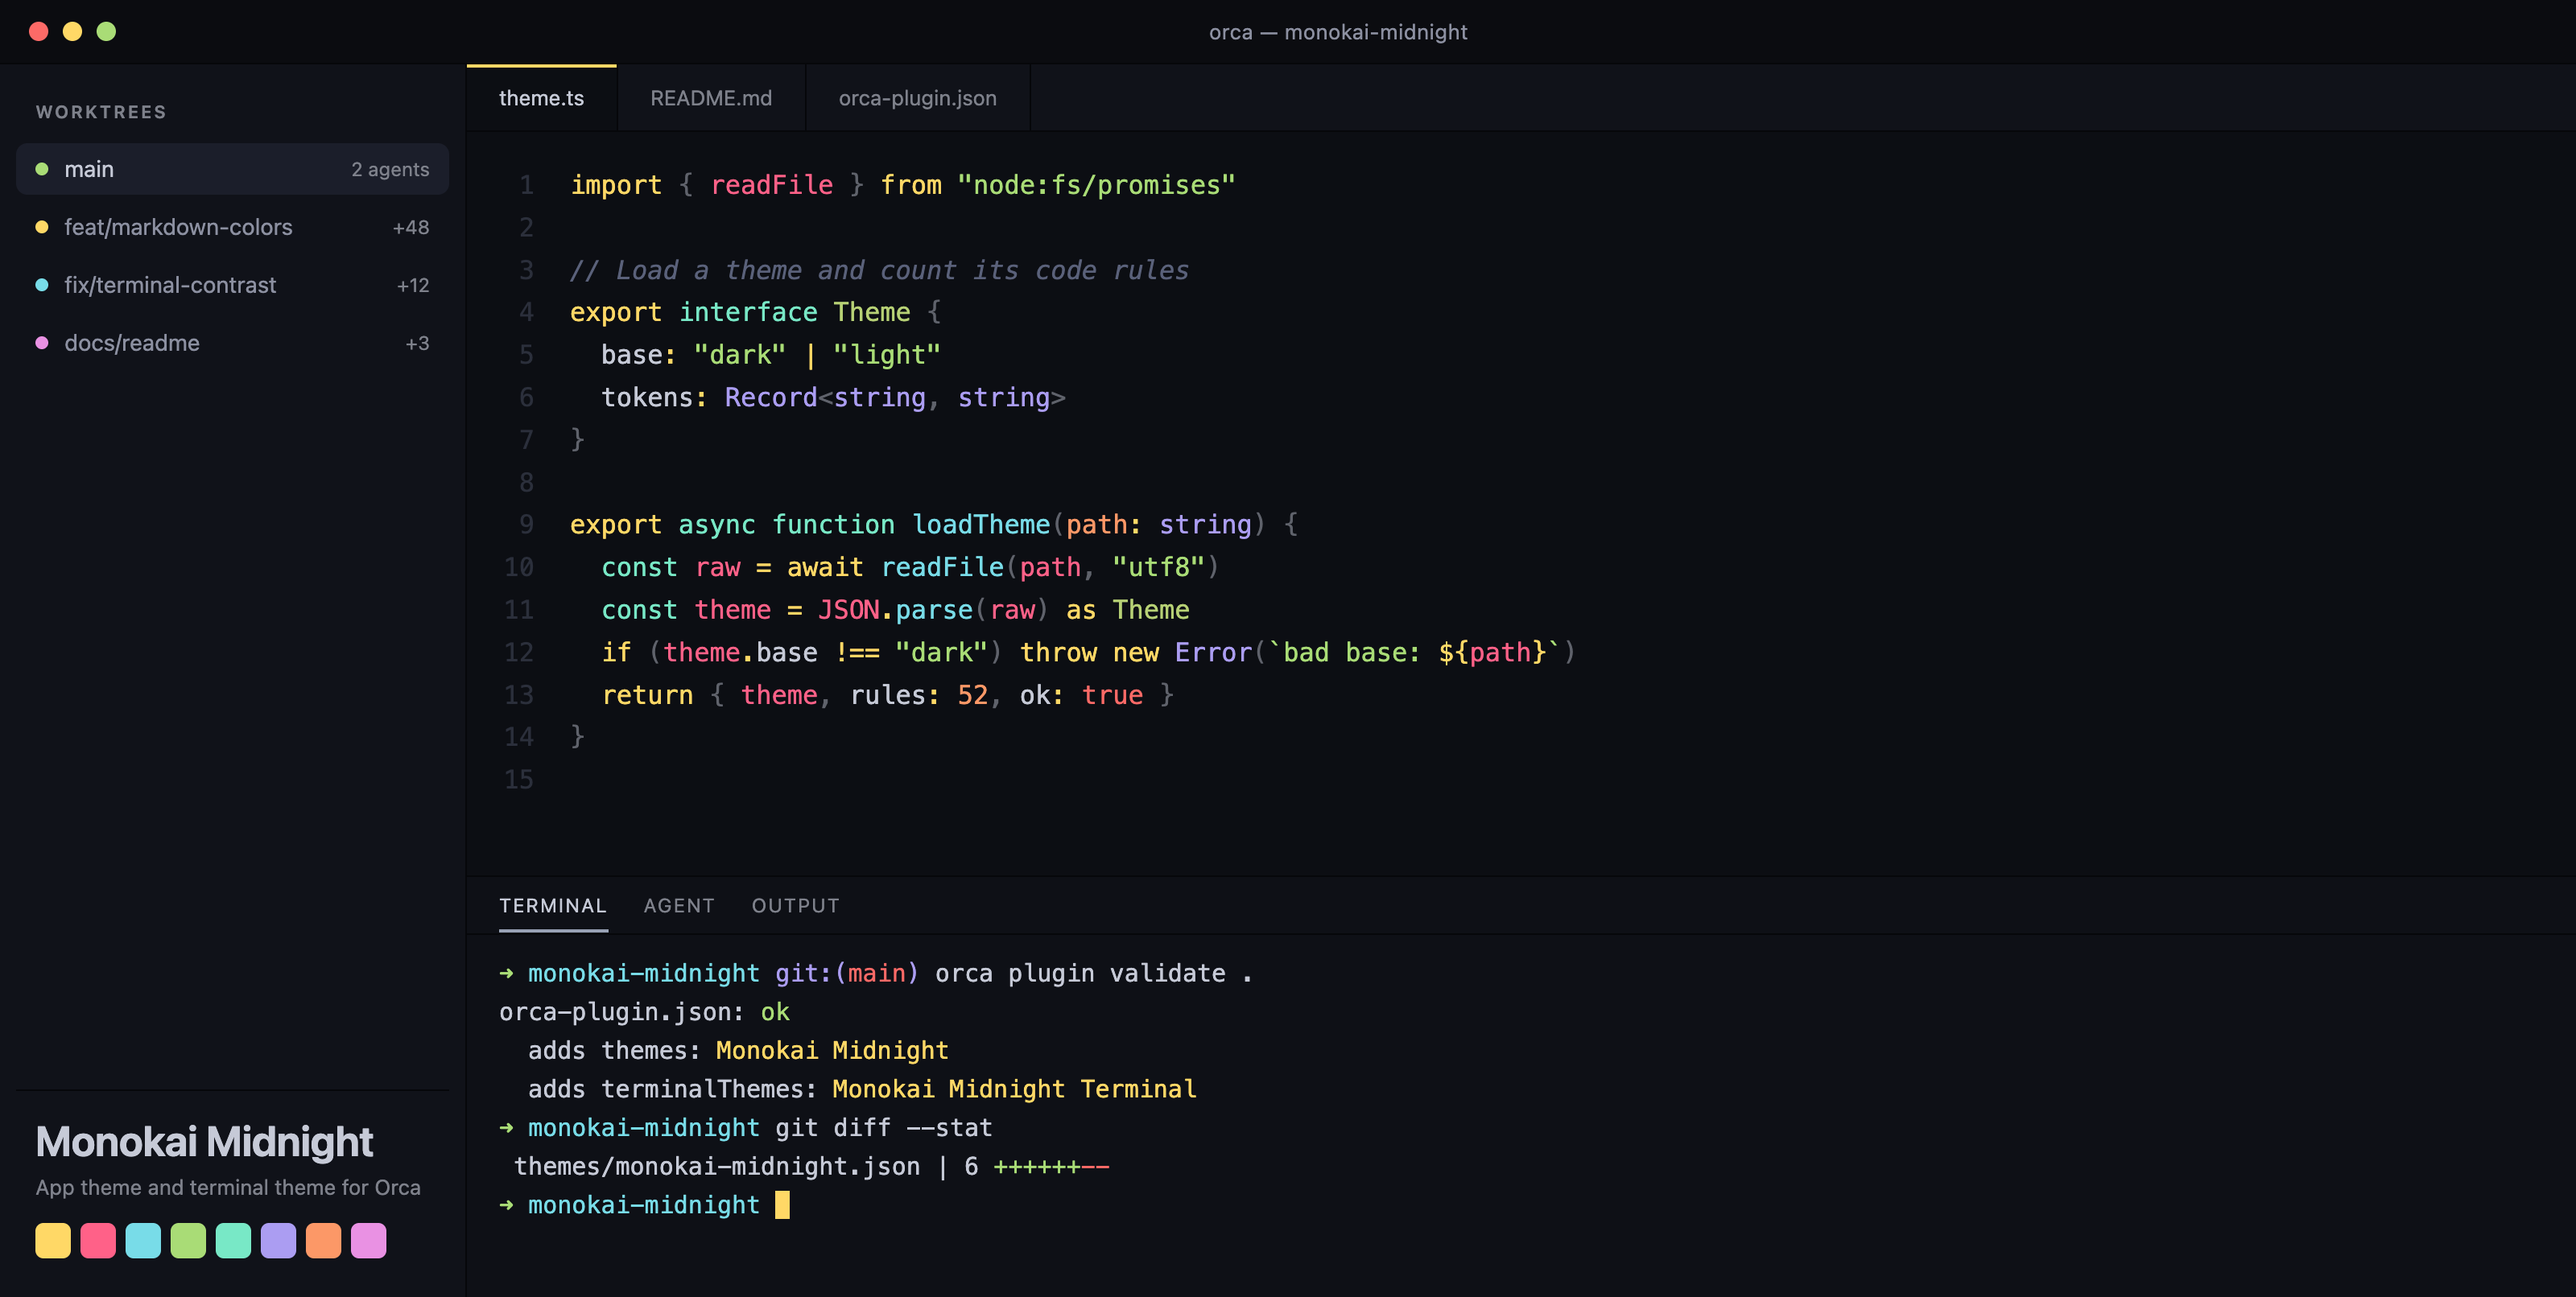
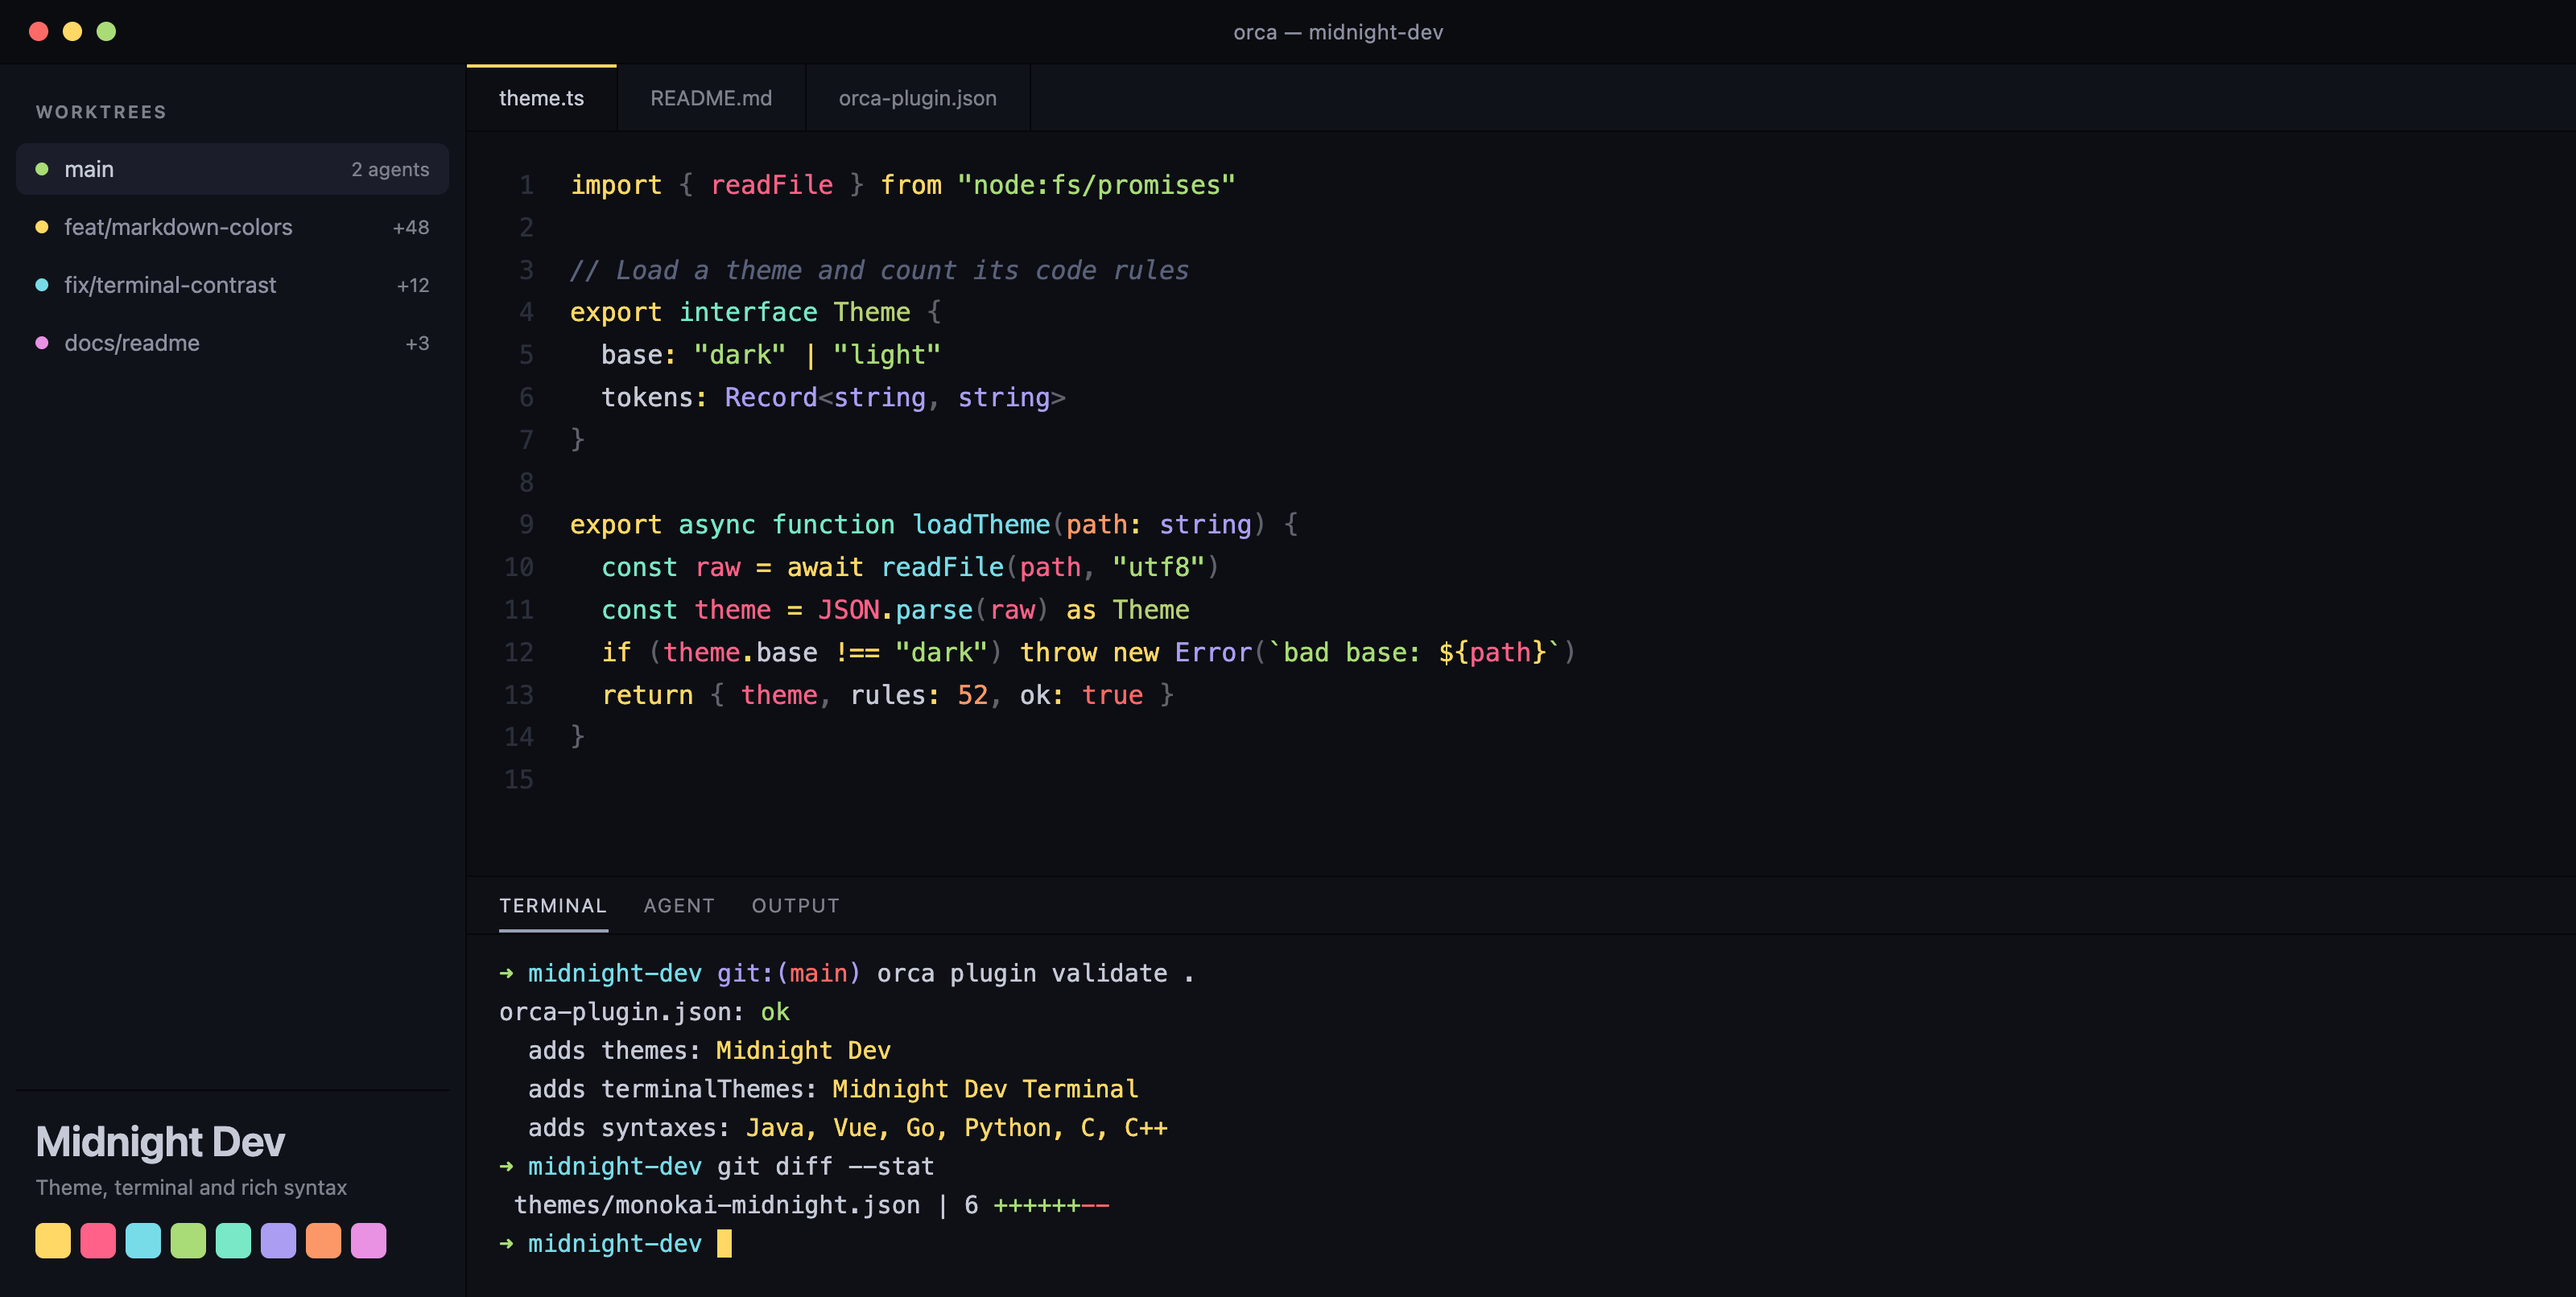
Rename plugin to Midnight Dev with Rich Syntax
New display name, theme titles, description and cover. The plugin id
and theme ids stay monokai-midnight so existing installs keep updating.

diff --git a/README.md b/README.md
@@ -1,16 +1,16 @@
-# Monokai Midnight
+# Midnight Dev with Rich Syntax
 
 A dark Monokai theme for [Orca](https://www.onorca.dev/): an app theme (interface and code colors), a matching terminal theme, and full TextMate grammars for **Java**, **Vue**, **Go**, **Python**, **C** and **C++**. The editor is darker than the sidebars. It is based on [Bearded Theme](https://github.com/BeardedBear/bearded-theme) **Monokai Reversed**, with darker backgrounds.
 
-![Monokai Midnight in Orca](images/cover.png)
+![Midnight Dev in Orca](images/cover.png)
 
 Requires Orca 1.4.246 or later.
 
 ## Use it
 
-1. Install **Monokai Midnight** from **Settings → Plugins** (community catalog).
-2. In **Settings → Appearance**, choose **Monokai Midnight** as the dark theme.
-3. In **Settings → Terminal**, choose **Monokai Midnight Terminal**.
+1. Install **Midnight Dev with Rich Syntax** from **Settings → Plugins** (community catalog).
+2. In **Settings → Appearance**, choose **Midnight Dev** as the dark theme.
+3. In **Settings → Terminal**, choose **Midnight Dev Terminal**.
 4. Open a `.java`, `.vue`, `.go`, `.py`, `.c` or `.cpp` file. The plugin's grammars color it. See [Languages](#languages).
 5. If another plugin also claims `.vue`, for example `gzimbron.vuejs-lang`, disable it. When two plugins claim the same file extension, Orca picks one by its syntax id.
 
@@ -52,7 +52,7 @@ Orca skips scope selectors that contain spaces, such as `source.diff markup.inse
 
 ## Code colors in Orca
 
-Orca reduces every code token to one of 24 token types before a theme colors it, so a theme in Orca has fewer color groups than in VS Code. Monokai Midnight sets these types to the Bearded colors:
+Orca reduces every code token to one of 24 token types before a theme colors it, so a theme in Orca has fewer color groups than in VS Code. Midnight Dev sets these types to the Bearded colors:
 
 | Token type | Color | Examples |
 | --- | --- | --- |
@@ -114,13 +114,13 @@ The script downloads the grammars and language configuration files from one exac
 
 ## What's new in 1.1.0
 
+- New name: **Midnight Dev with Rich Syntax** (before: Monokai Midnight). The plugin id and theme ids do not change, so your settings stay.
 - Full TextMate grammars for Java, Vue, Go, Python, C and C++.
-
 - Colors for tabs, git status in the file explorer, the diff view, links, the current workspace row, split dividers and chat messages (23 new interface tokens).
 - Code colors adjusted for Orca's token types: yellow keywords and operators, neutral names, orange objects and `this`, pink annotations, turquoise regular expressions.
 
 ## License
 
-Monokai Midnight is derived from [Bearded Theme](https://github.com/BeardedBear/bearded-theme) by BeardedBear, licensed under GPL-3.0. It is not an official Bearded Theme release. This theme is also licensed under GPL-3.0.
+Midnight Dev is derived from [Bearded Theme](https://github.com/BeardedBear/bearded-theme) by BeardedBear, licensed under GPL-3.0. It is not an official Bearded Theme release. This theme is also licensed under GPL-3.0.
 
 The grammars in `syntaxes/` keep their own licenses (MIT and the TextMate Bundle License). See [THIRD-PARTY-NOTICES.md](THIRD-PARTY-NOTICES.md).

diff --git a/THIRD-PARTY-NOTICES.md b/THIRD-PARTY-NOTICES.md
@@ -1,6 +1,6 @@
 # Third-party notices
 
-Monokai Midnight ships TextMate grammars and language configuration files from the [Visual Studio Code](https://github.com/microsoft/vscode) repository at `4d2fba6576fd008ecfcc06a93378d004460c2473`, and the Vue grammar from [vuejs/language-tools](https://github.com/vuejs/language-tools) at `c59f9908b4912ee20141b53a99b1ce485bff0dc7`.
+Midnight Dev ships TextMate grammars and language configuration files from the [Visual Studio Code](https://github.com/microsoft/vscode) repository at `4d2fba6576fd008ecfcc06a93378d004460c2473`, and the Vue grammar from [vuejs/language-tools](https://github.com/vuejs/language-tools) at `c59f9908b4912ee20141b53a99b1ce485bff0dc7`.
 
 Changes from the original files:
 
